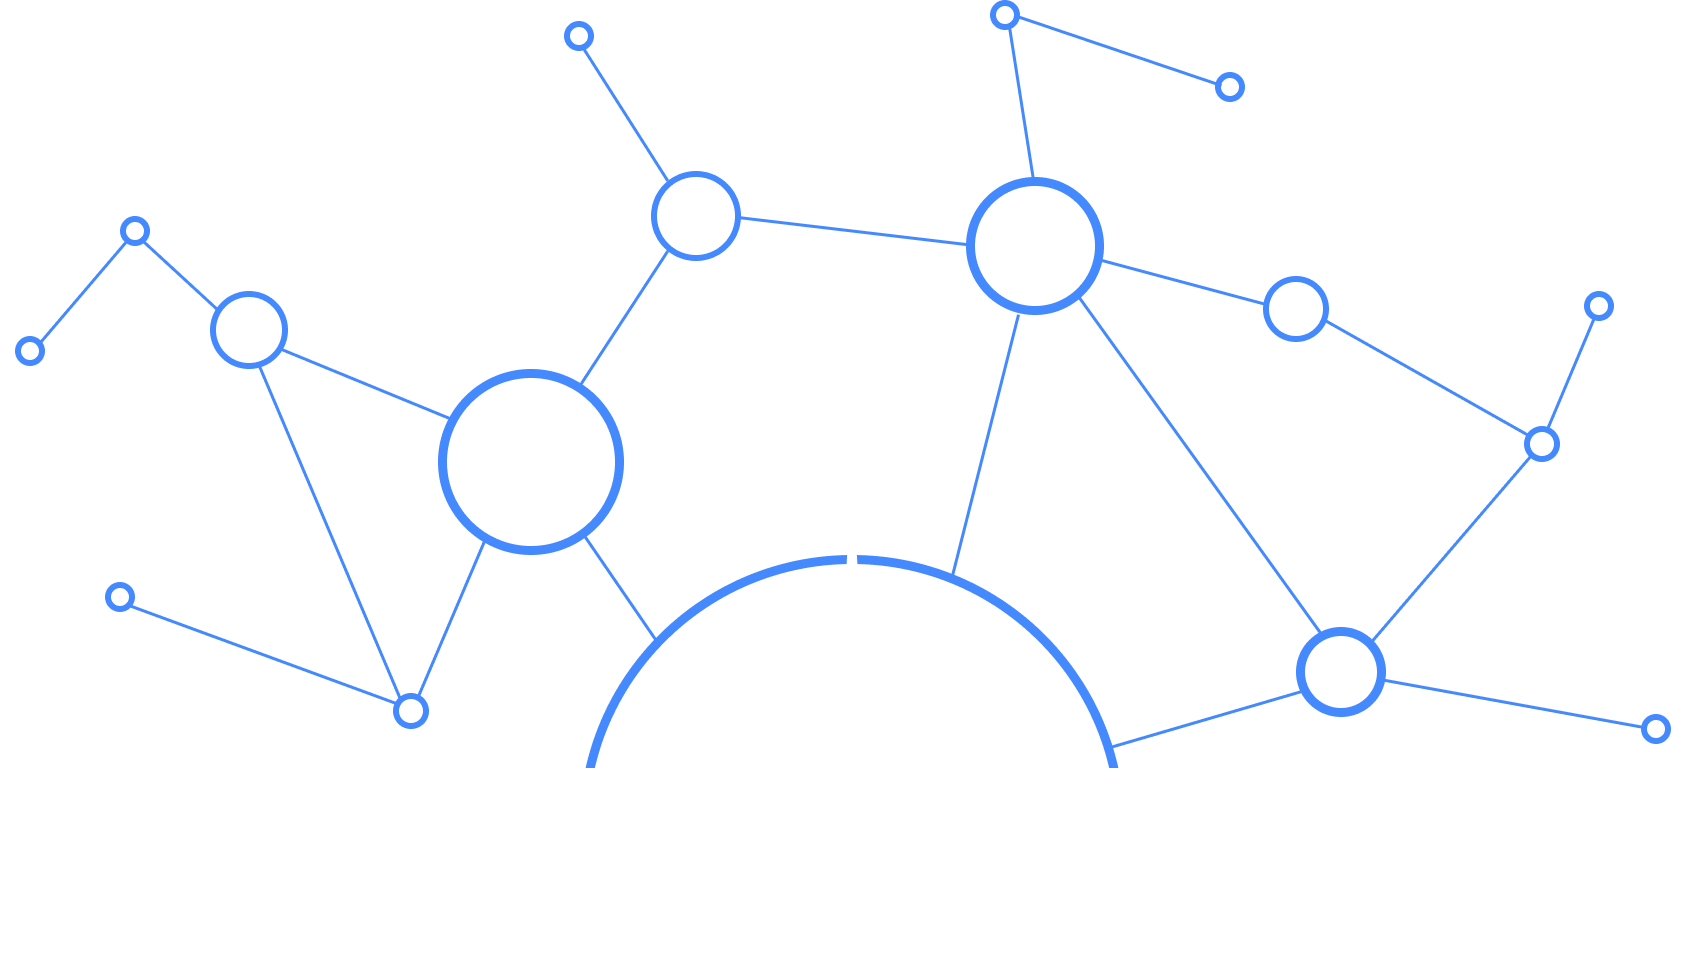
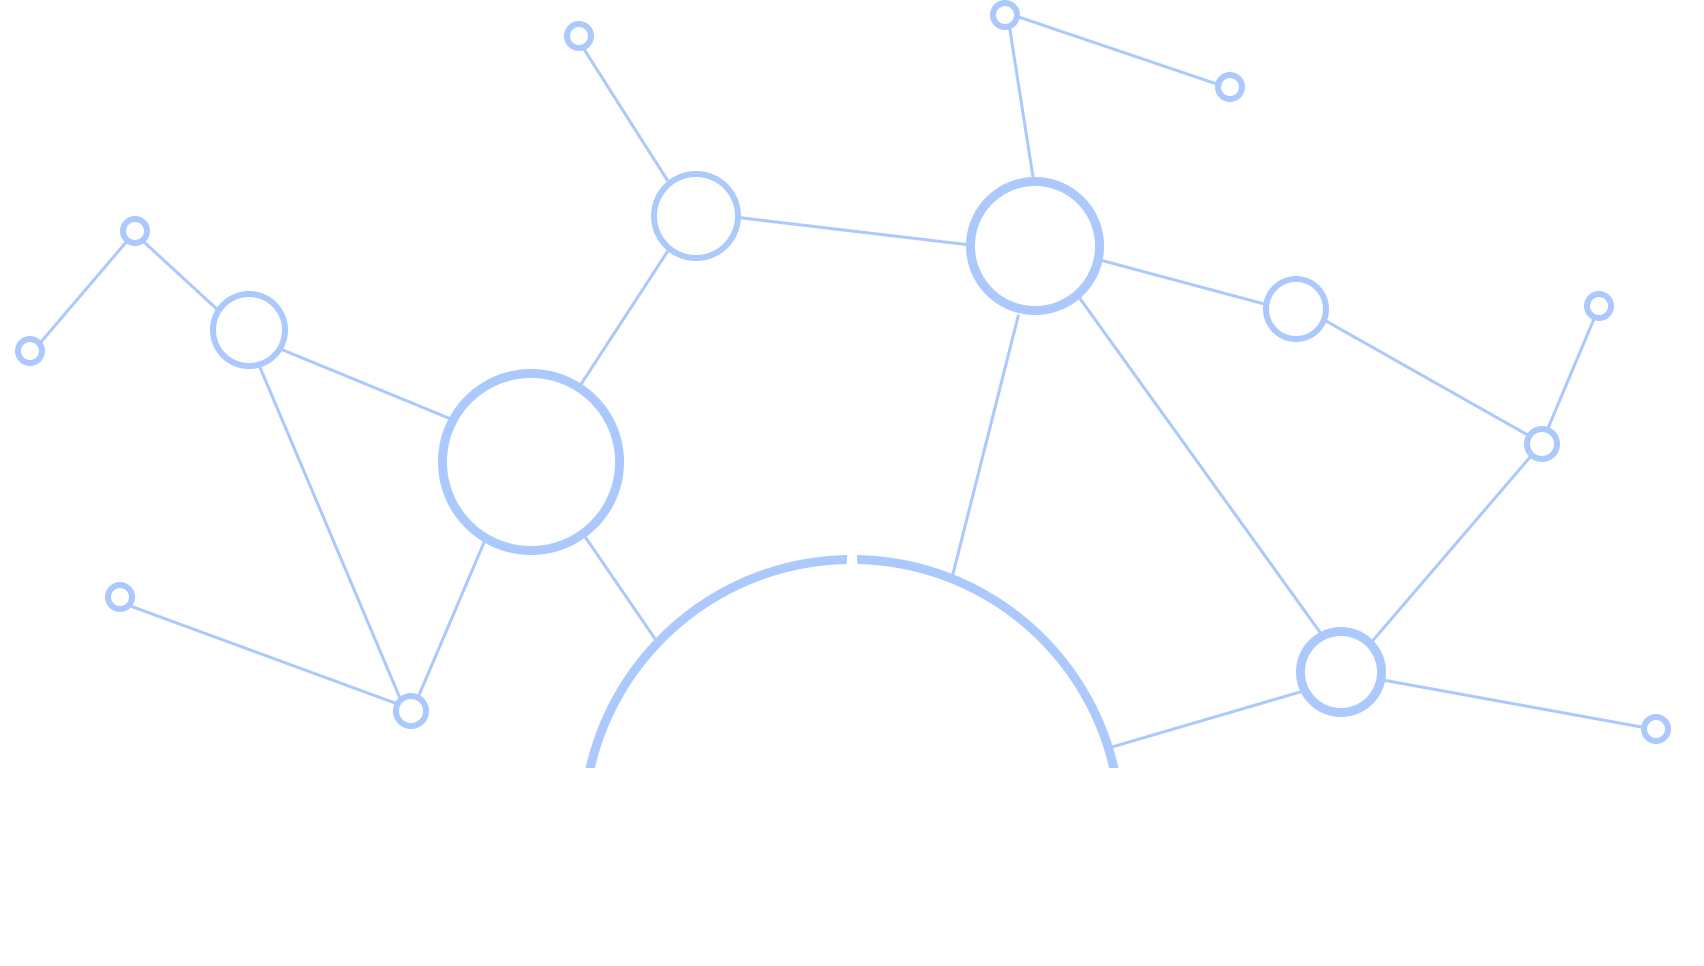
feat(docs): custom startlight to align with carbon design system

diff --git a/apps/docs/src/styles/global.css b/apps/docs/src/styles/global.css
@@ -1,11 +1,71 @@
-@layer base, starlight, theme, components, utilities;
+@layer base, starlight, carbonized, components, utilities;
 
 @import '@astrojs/starlight-tailwind';
 @import 'tailwindcss/theme.css' layer(theme);
 @import 'tailwindcss/utilities.css' layer(utilities);
 
-:root {
-	--sl-font: 'IBM Plex Sans Thai Looped', serif;
+@theme {
+	--font-sans: 'IBM Plex Sans Thai Looped', serif;
+
+	--color-accent-200: #acc9fe;
+	--color-accent-600: #0159f4;
+	--color-accent-900: #0b2c6f;
+	--color-accent-950: #0c214a;
+	--color-gray-100: #f6f6f6;
+	--color-gray-200: #eeeeee;
+	--color-gray-300: #c2c2c2;
+	--color-gray-400: #8b8b8b;
+	--color-gray-500: #585858;
+	--color-gray-700: #383838;
+	--color-gray-800: #272727;
+	--color-gray-900: #181818;
+}
+
+@layer carbonized {
+	.sl-link-button,
+	site-search > button > kbd,
+	site-search > dialog,
+	.pagefind-ui__result-inner > * {
+		@apply rounded-none;
+	}
+
+	site-search > button,
+	.pagefind-ui__search-input {
+		@apply rounded-none border-x-0 border-t-0;
+	}
+
+	.sidebar-content {
+		@apply p-0;
+	}
+
+	.sidebar-content a,
+	.sidebar-content summary {
+		@apply rounded-none border-l-4 border-transparent px-4;
+	}
+
+	.sidebar-content a[aria-current='page'] {
+		@apply border-accent-600 dark:border-accent-200 border-l-4 bg-gray-200 text-black dark:bg-gray-700 dark:text-white;
+	}
+
+	.pagination-links > a {
+		@apply rounded-none p-3 text-xs shadow-none;
+	}
+
+	.pagination-links > a .link-title {
+		@apply text-lg;
+	}
+
+	.meta {
+		@apply italic;
+	}
+
+	.sl-link-button.primary {
+		@apply hover:brightness-110;
+	}
+
+	.sl-link-button.secondary {
+		@apply hover:bg-gray-100 dark:hover:bg-gray-800;
+	}
 }
 
 starlight-tabs > div {
